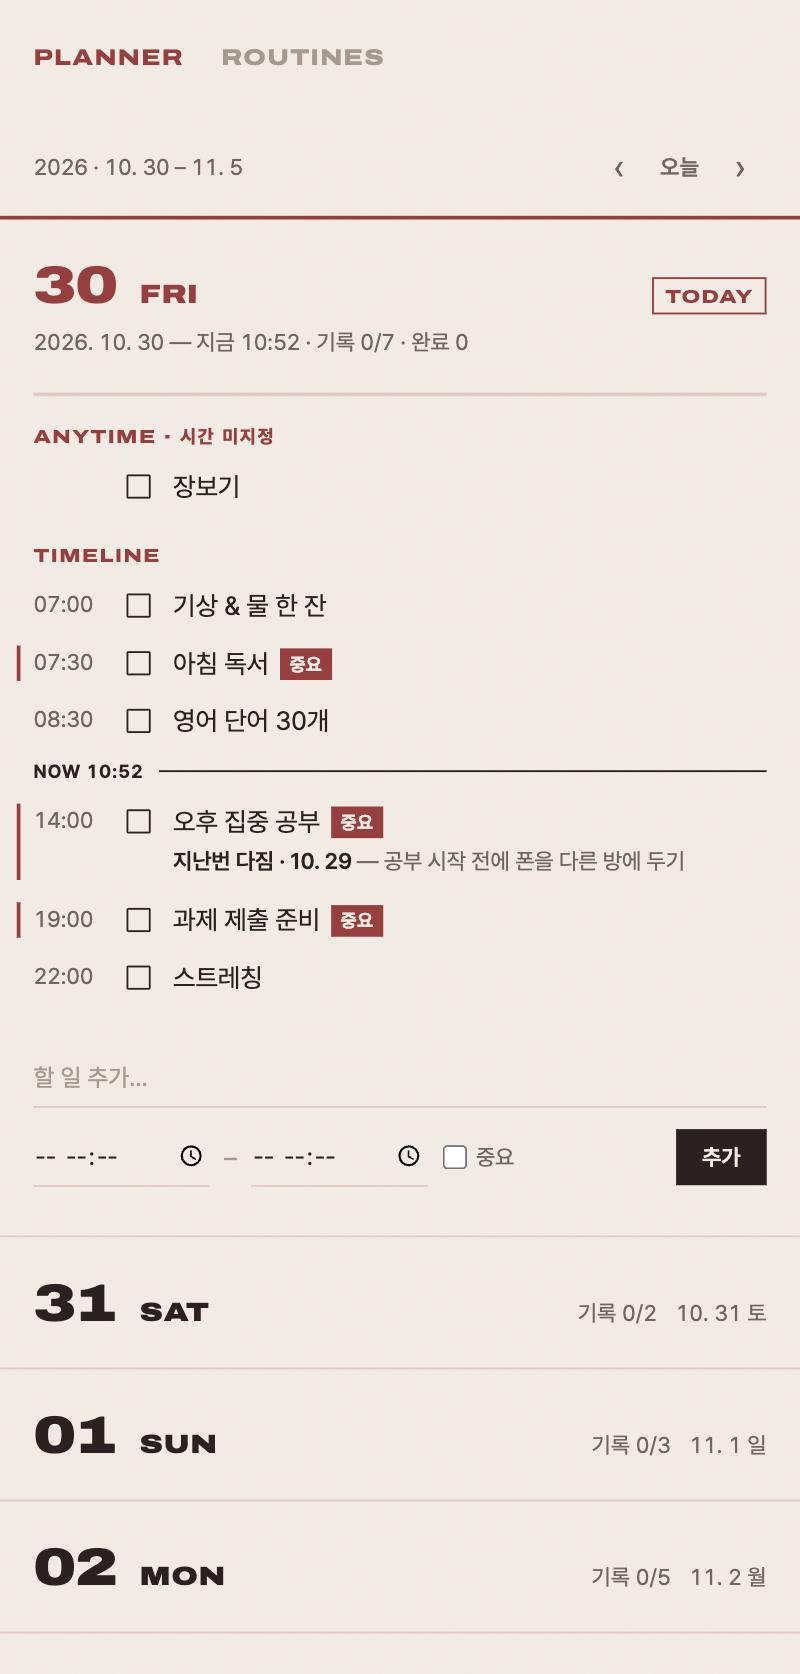
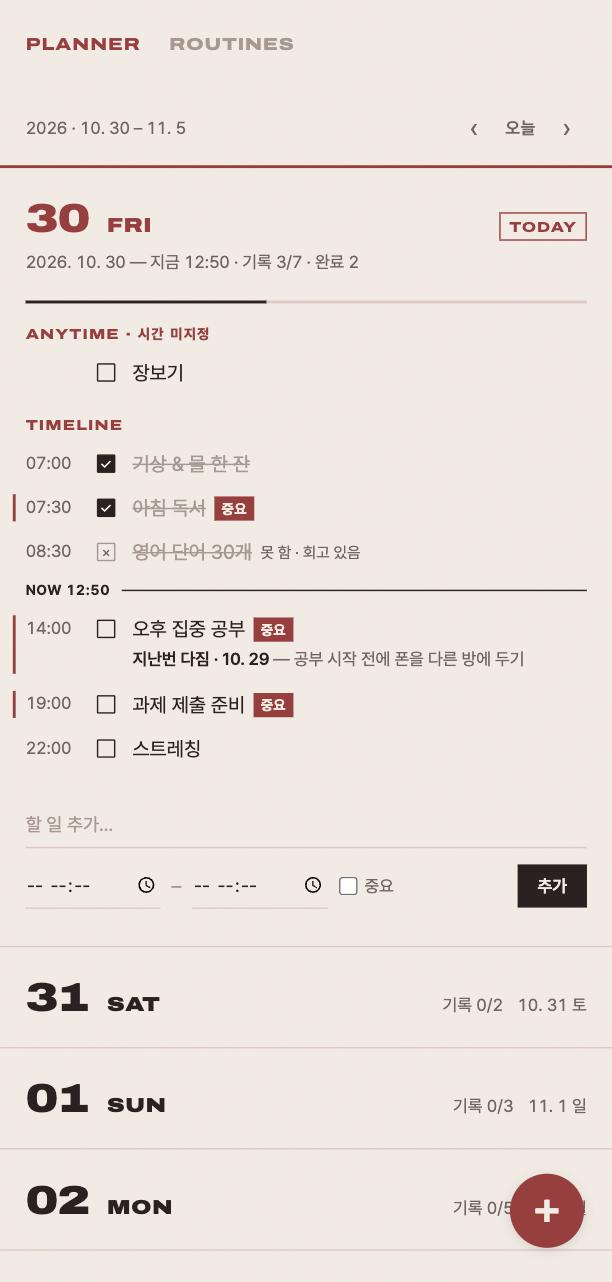
README: 샘플 화면 섹션 (로그인·플래너·추가 창·회고·루틴), 최신 화면으로 교체

diff --git a/todo-app/README.md b/todo-app/README.md
@@ -9,11 +9,22 @@
 - DB 구조: [DB-구조.md](DB-구조.md)
 - 리뷰 양식: [Review.md](Review.md) (ART — Agent Review Template)
 
-| 플래너 | 회고 | 루틴 |
-|---|---|---|
-| ![플래너](docs/screenshots/1-planner.jpg) | ![회고](docs/screenshots/2-review.jpg) | ![루틴](docs/screenshots/3-routines.jpg) |
+## 샘플 화면
 
-> 화면의 데이터는 `npm run seed`로 넣은 **예시 데이터**다. 실제 개인 일정은 저장소에 올리지 않는다.
+배포된 사이트는 로그인해야 안을 볼 수 있어서, 주요 화면을 캡처해 두었다. (휴대폰 폭 기준)
+
+| ① 로그인 | ② 플래너 (오늘부터 7일) | ③ + 버튼으로 할 일 추가 |
+|---|---|---|
+| ![로그인](docs/screenshots/0-login.png) | ![플래너](docs/screenshots/1-planner.jpg) | ![할 일 추가](docs/screenshots/6-add.jpg) |
+| 사이트에 처음 들어오면 보이는 화면. 가입·로그인 (Supabase Auth) | 루틴이 날마다 자동으로 생기고, 시간 순으로 체크. 지금 시각(NOW)과 '지난번 다짐'이 보인다 | 오른쪽 아래 붉은 + 버튼 → 어느 날짜에든 추가 |
+
+| ④ 회고 | ⑤ 루틴 (해빗 트래커) |
+|---|---|
+| ![회고](docs/screenshots/2-review.jpg) | ![루틴](docs/screenshots/3-routines.jpg) |
+| '일부만·못 함'이면 실제로 한 일·이유·다음엔 이렇게를 남긴다 | 이번 주 M T W T F S S 칸과 연속 기록 |
+
+> ②~⑤의 데이터는 `npm run seed`로 넣은 **예시 데이터**다. 실제 개인 일정은 저장소에 올리지 않는다.
+> 직접 눌러 보려면 사이트에서 가입하거나, 아래 [빠른 시작](#빠른-시작-리뷰어용)대로 내 컴퓨터에서 예시 데이터로 실행하면 된다 (로그인 없음).
 
 ## 빠른 시작 (리뷰어용)
 
